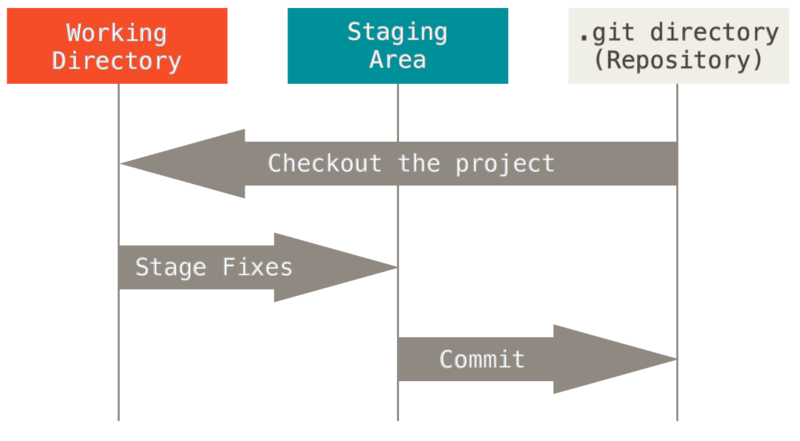
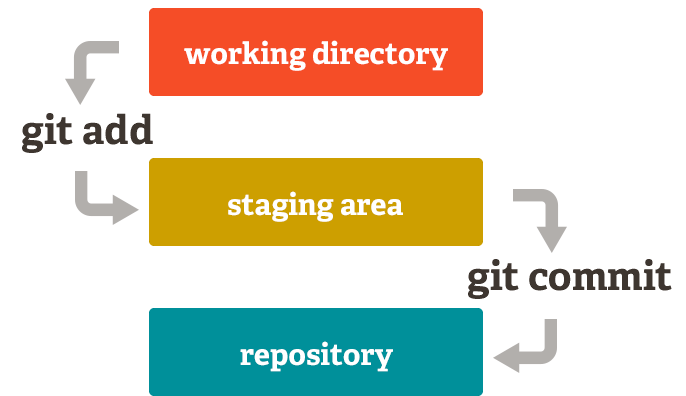
:sparkles: feat: work in progress
Avance general de la plantilla /bunker/github.

diff --git a/bunker/github.html b/bunker/github.html
@@ -40,36 +40,154 @@
                         <p>Notas sobre el uso diario de GitHub</p>
                     </header>
 
-                    <!-- Text -->
+                    <!-- Definiciones Generales -->
                     <section id="content">
-                        <!-- Definiciones Básicas -->
-                        <h2>Que es un Repositorio?</h2>
+                        <h2>Definiciones Generales</h2>
+                        <h3>Que es un Repositorio?</h3>
                         <p>Git organiza los archivos en tres áreas principales que forman el flujo de trabajo para el control de versiones:</p>
 
                         <div class="img-center-container">
-                            <img src="images/areas-git-2.png" alt="areas de github" srcset="" class="img-center w30 mw80" />
+                            <img src="images/areas-git.png" alt="areas de github" srcset="" class="img-center w30 mw80" />
                         </div>
-                        <br />
-                        <h3>🛠 Working Area (Directorio de Trabajo)</h3>
+
+                        <h4>🛠 Working Area (Directorio de Trabajo)</h4>
                         <p>
                             Es donde trabajas con los archivos de tu proyecto. Aquí puedes crear, modificar o eliminar archivos. Git detecta estos cambios, pero no los guarda automáticamente en el
                             historial de versiones hasta que los añadas a la siguiente área.
                         </p>
-                        <h3>📦 Staging Area (Área de preparación)</h3>
+                        <h4>📦 Staging Area (Área de preparación)</h4>
                         <p>
                             Es un área intermedia donde Git almacena los archivos que han sido seleccionados ( ) para ser incluidos en el próximo commit. Solo los archivos que están en esta área se
                             guardarán en el historial cuando hagas un <code>commit</code>.
                         </p>
-                        <h3>📂 .git Directory (Repositorio)</h3>
+                        <h4>📂 .git Directory (Repositorio)</h4>
                         <p>
                             Es la base de datos interna de Git donde se almacenan los commits, ramas, etiquetas y el historial del proyecto. Todo lo que se confirma ( <code>commit</code> ) en el
                             repositorio se guarda aquí de forma segura.
                         </p>
+
+                        <br /><br />
+
+                        <h3>Ciclo de vida de un archivo en Git</h3>
+                        <p>En resumen, el ciclo se puede ver de la siguiente forma:</p>
+                        <div class="img-center-container">
+                            <img src="images/life-file-git.png" alt="Imagen no disponible!" srcset="" class="img-center w60 mw80" />
+                        </div>
+                        <ul>
+                            <li><span class="text-fontall">untracked</span>: Git no está siguiendo el archivo. No forma parte del historial de commits</li>
+                            <li>
+                                <span class="text-fontall">Unmodified</span>: El archivo esta siendo rastreado por Git y <span class="text-underline">no ha sido modificado</span> desde el ultimo
+                                commit. Es el estado base después de hacer un commit.
+                            </li>
+                            <li>
+                                <span class="text-fontall">Modified</span>: El archivo esta siendo rastreado por Git pero <span class="text-underline">ha sido modificado</span> después del ultimo
+                                commit.
+                            </li>
+                            <li><span class="text-fontall">Staged</span>: El archivo modificado ha sido agregado al <span class="text-underline">staging area</span> (zona de preparación).</li>
+                        </ul>
+
+                        <br /><br />
+                        <h3>Archivo GitIgnore</h3>
+                        <p>
+                            Un archivo importante es el <code>.gitignore</code>. Este mismo le indica a Git qué archivos o carpetas debe ignorar en el repositorio. Cada linea del archivo representa un
+                            patrón de archivos o directorios que no serán rastreados por Git.
+                        </p>
+                        <div class="code-box">
+                            <button class="copy-btn" onclick="copyCode(this)"></button>
+                            <pre><code>desktop.ini
+*.ini
+.vscode/
+bin/</code></pre>
+                        </div>
                     </section>
 
                     <hr />
 
-                    
+                    <!-- Configuraciones Iniciales -->
+                    <section id="content">
+                        <h2>Configurar Credenciales</h2>
+                        <p class="min-margin">Git mantiene un archivo de configuración global llamado <code>.gitconfig</code>, este mismo se puede editar con:</p>
+                        <div class="code-box">
+                            <button class="copy-btn" onclick="copyCode(this)"></button>
+                            <pre><code class="language-git">git config --global --edit</code></pre>
+                        </div>
+                        <p class="min-margin">En ese mismo archivo, se deben configurar dos variables: <span class="text-fontall">user.name</span> y <span class="text-fontall">user.email</span></p>
+                    </section>
+                    <div class="code-box">
+                        <button class="copy-btn" onclick="copyCode(this)"></button>
+                        <pre><code class="language-txt">[user]
+    name = usuario-de-git
+    email = correo@dominio.com</code></pre>
+                    </div>
+
+                    <hr />
+
+                    <!-- Comandos Esenciales -->
+                    <section id="content">
+                        <h2>Trabajando con Commits</h2>
+
+                        <h3>Creación de Commits</h3>
+                        <p class="min-margin">El <span class="text-bold">commits</span> es un snapshot de los cambios en el staging area. El comando para realizarlo es <code>commit</code>:</p>
+                        <div class="code-box">
+                            <button class="copy-btn" onclick="copyCode(this)"></button>
+                            <pre><code class="language-git"># Expresión mas elemental
+git commit -m "Mensaje descriptivo"
+
+# Simula el commit (no lo realiza, sirve para verificar que se incluiría)
+git commit --dry-run
+
+# Reutiliza el mensaje del commit anterior (ideal para correcciones rápidas)
+git commit -C HEAD~1
+
+# Permite prescindir del 'git add' previo al commit.
+git commit -a -m "Mensaje descriptivo"
+
+# Firma el commit con una clave GPG (Requiere especificarla en .gitconfig)
+git -S -m "Mensaje descriptivo"</code></pre>
+                        </div>
+
+                        <br />
+                        <br />
+                        <br />
+
+                        <h4 id="emoji">Escritura de Mensajes de Commits Efectivos</h4>
+                        La estructura recomendada es la siguiente:
+                        <div class="code-box">
+                            <button class="copy-btn" onclick="copyCode(this)"></button>
+                            <pre><code>&#60;emoji&#62; &#60;type&#62;[optional scope]: &#60;description&#62;
+[optional body]
+[optional footer(s)]</code></pre>
+                        </div>
+                        <p>
+                            El campo <span class="text-bold">tipo</span> corresponde a alguno de los siguientes (Opcional: se pueden usar los iconos de la web
+                            <a href="http://" target="_blank" rel="noopener noreferrer"></a>
+                        </p>
+
+                        <ul>
+                            <li><span class="text-bold">feat</span> <code>:sparkles:</code> (✨) Agregar una nueva funcionalidad.</li>
+                            <li><span class="text-bold">fix</span> <code>:bug:</code> (🐛) Solucionar un error o bug.</li>
+                            <li><span class="text-bold">docs</span> <code>:books:</code> (📚) Cambios en la documentación.</li>
+                            <li><span class="text-bold">style</span> <code>:art:</code> (🎨) Mejorar el formato o estructura del código (sin afectar la lógica).</li>
+                            <li><span class="text-bold">refactor</span> <code>:hammer:</code> (🔨) Refactorización sin cambios funcionales.</li>
+                            <li><span class="text-bold">perf</span> <code>:racehorse:</code> (🐎) Mejorar el rendimiento del código.</li>
+                            <li><span class="text-bold">test</span> <code>:white_check_mark:</code> (✅) Agregar o modificar pruebas.</li>
+                            <li><span class="text-bold">chore</span> <code>:wrench:</code> (🔧) Modificar archivos de configuración.</li>
+                            <li><span class="text-bold">chore</span> <code>:package:</code> (📦) Cambios en <code>package.json</code> u otros archivos de dependencias.</li>
+                            <li><span class="text-bold">chore</span> <code>:arrow_up:</code> (⬆) Actualizar dependencias.</li>
+                            <li><span class="text-bold">chore</span> <code>:arrow_down:</code> (⬇) Hacer downgrade de dependencias.</li>
+                            <li><span class="text-bold">fix</span> <code>:ambulance:</code> (🚑) Hotfix crítico de emergencia.</li>
+                            <li><span class="text-bold">chore</span> <code>:rocket:</code> (🚀) Desplegar la aplicación.</li>
+                            <li><span class="text-bold">merge</span> <code>:twisted_rightwards_arrows:</code> (🔀) Fusionar ramas en Git.</li>
+                            <li><span class="text-bold">revert</span> <code>:rewind:</code> (⏪) Revertir un cambio anterior.</li>
+                        </ul>
+                    </section>
+
+                    <hr />
+
+                    <!--  -->
+                    <section id="content">
+                        <h2>Comandos Esenciales</h2>
+                    </section>
                 </div>
             </div>
 

diff --git a/assets/css/bunker.css b/assets/css/bunker.css
@@ -1,7 +1,35 @@
+/* =============> SPAN para textos */
+span.text-italic {
+    font-style: italic;
+}
+
+span.text-bold {
+    font-weight: bold;
+}
+
+span.text-underline {
+    text-decoration: underline;
+}
+
+span.text-fontall {
+    font-style: italic;
+    font-weight: bold;
+}
+
+
+
+/* =============> Para modificar la plantilla */
+p.min-margin {
+    margin: 0.3em 0;
+}
+
+
+/* =============> Para centrado de imagenes */
 .img-center-container {
     display: flex;
     justify-content: center;
     width: 100%;
+    margin-bottom: 2em;
 }
 
 .img-center-container img {

diff --git a/assets/css/prism.css b/assets/css/prism.css
@@ -29,6 +29,7 @@ pre[class*="language-"] {
     -ms-hyphens: none;
     hyphens: none;
     border-radius: 0.3em;
+    margin: 0;
 }
 
 /* Code blocks */
